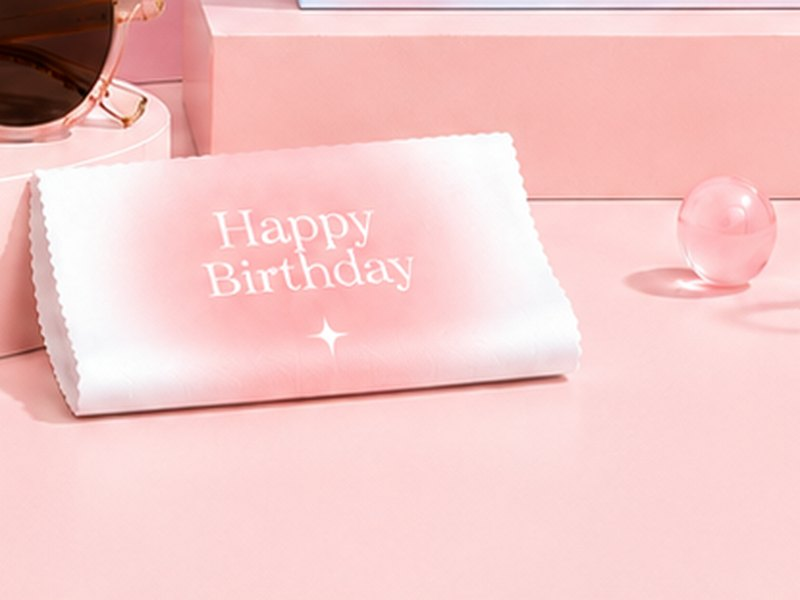
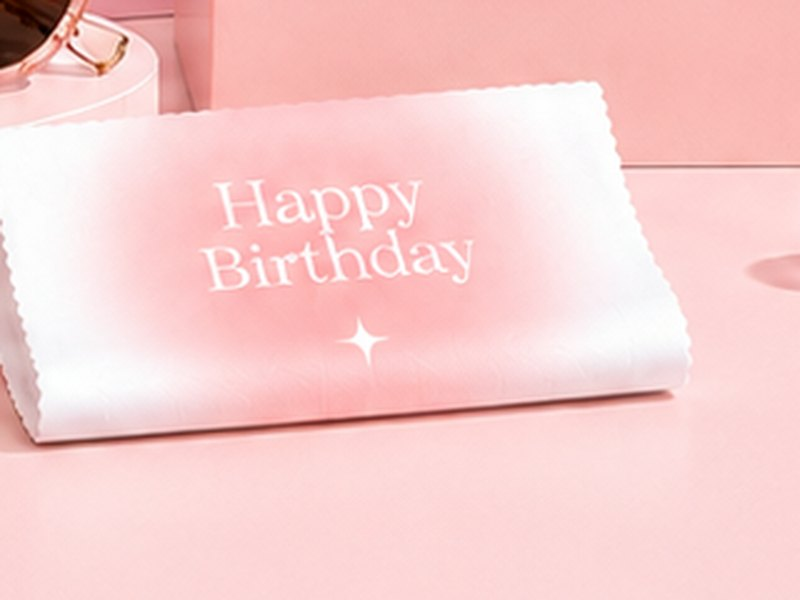
fix: 禮物圖片移除圓角、改頂端對齊;重裁眼鏡布特寫避免帶入雜物邊角

diff --git a/birthday.html b/birthday.html
@@ -19,7 +19,7 @@ j=d.createElement(s),dl=l!='dataLayer'?'&l='+l:'';j.async=true;j.src=
   <link rel="stylesheet" href="css/lohas-tokens.css">
   <link rel="stylesheet" href="css/lohas-base.css">
   <link rel="stylesheet" href="css/lohas-components.css">
-  <link rel="stylesheet" href="css/birthday.css?v=20260806-10">
+  <link rel="stylesheet" href="css/birthday.css?v=20260806-11">
   <script src="js/layout.js?v=20260806-1" defer></script>
   <!-- Favicon -->
   <link rel="icon" type="image/svg+xml" href="favicon.svg">

diff --git a/css/birthday.css b/css/birthday.css
@@ -252,14 +252,13 @@
   display:grid;
   grid-template-columns:1fr 1fr;
   gap:56px;
-  align-items:center;
+  align-items:start;
 }
 /* 偶數列:圖片換到右邊 */
 .bd .bd-gift-row--rev .bd-gift-media{ order:2 }
 .bd .bd-gift-row--rev .bd-gift-text{ order:1 }
 
 .bd .bd-gift-media{
-  border-radius:var(--r-xl);
   overflow:hidden;
   box-shadow:var(--sh-card);
 }
